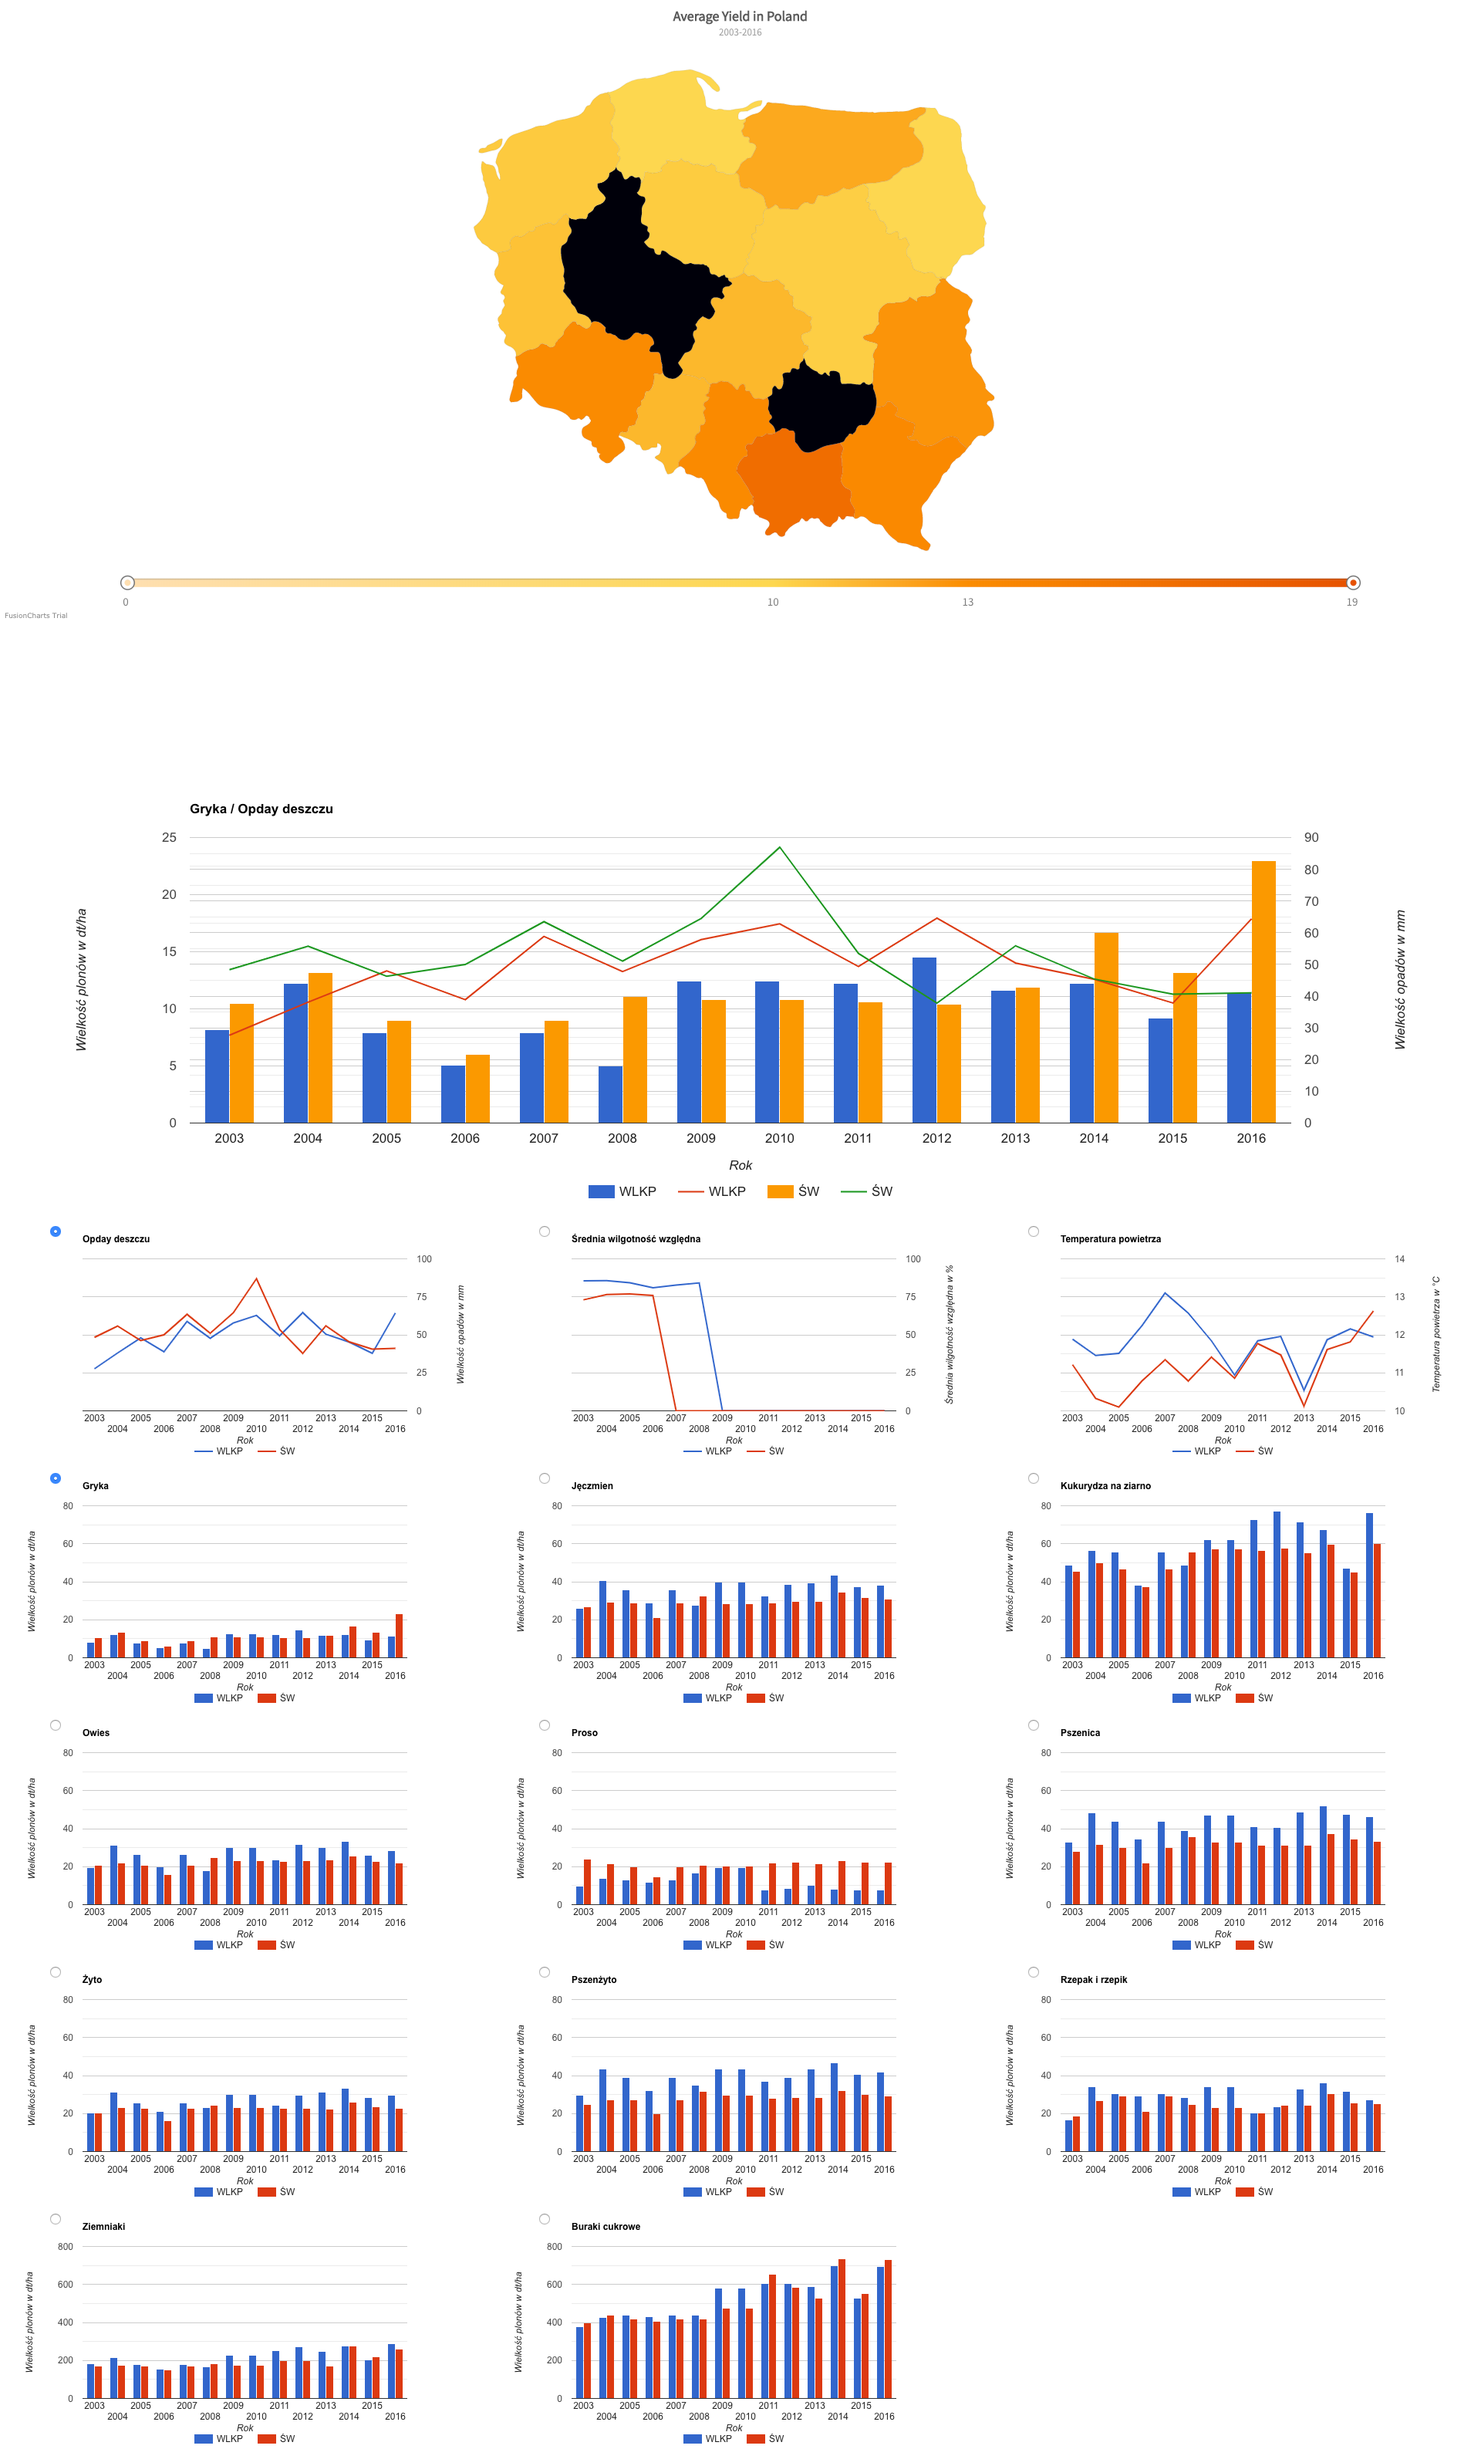
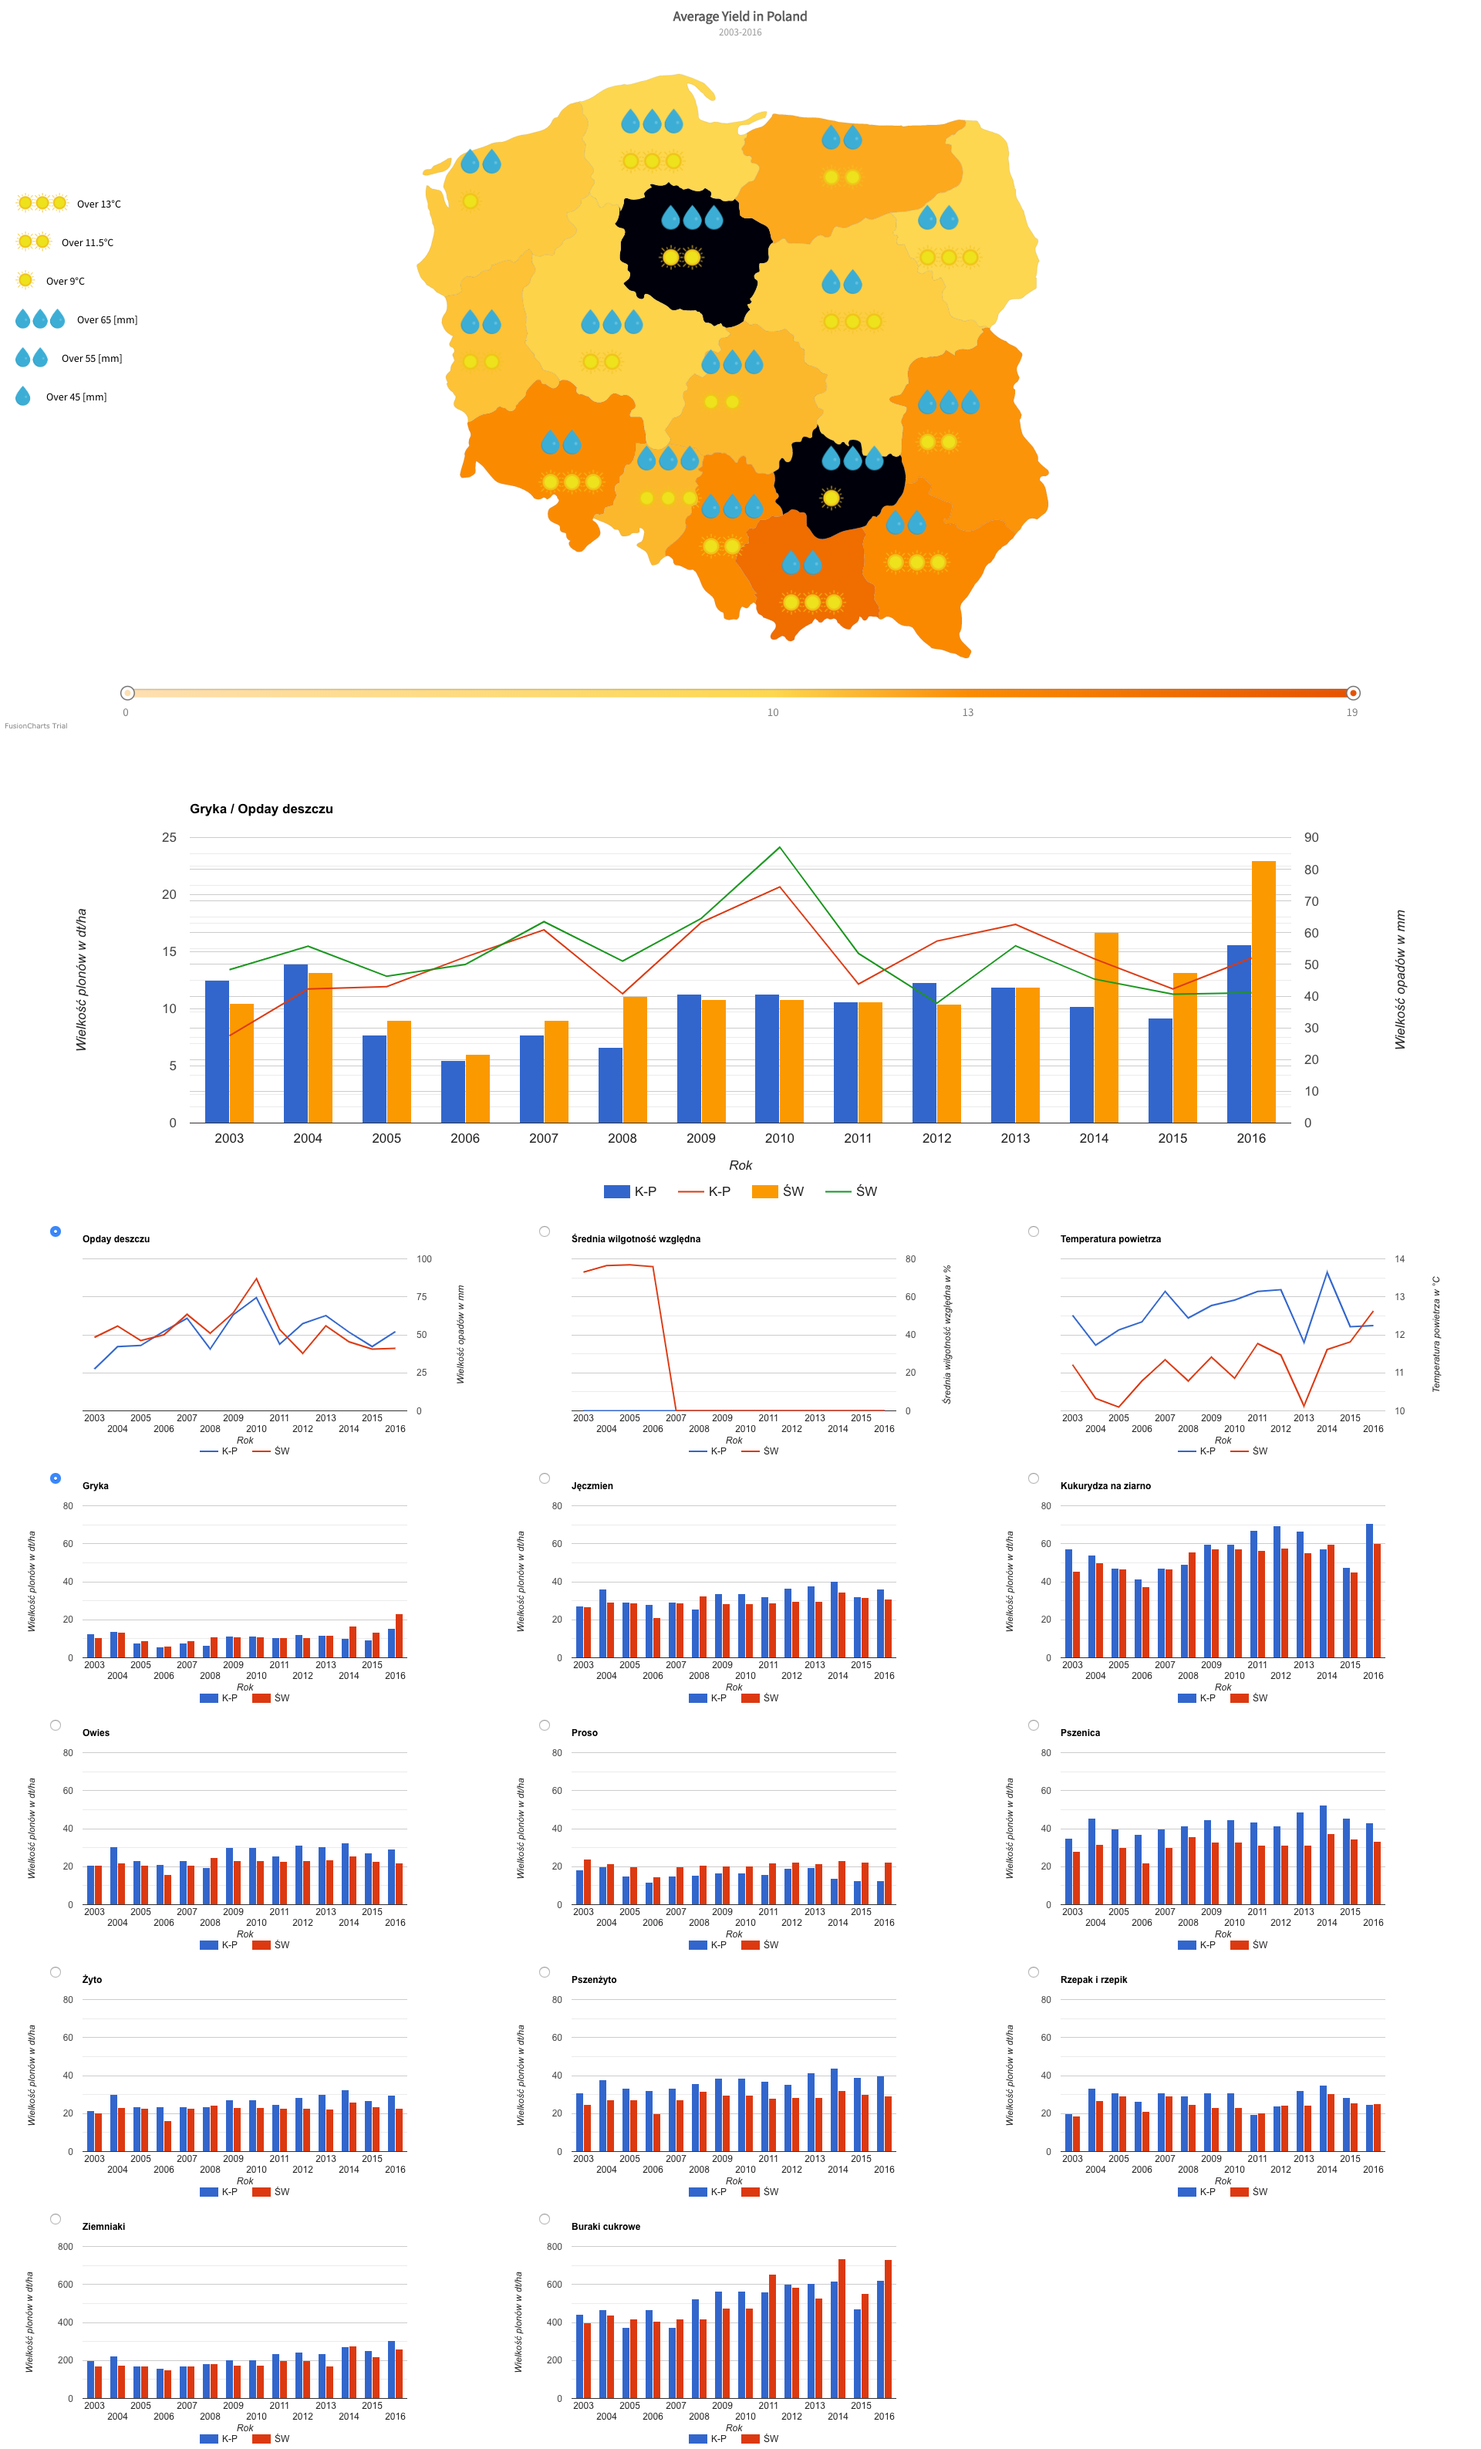
Fix meteo avg fnc

diff --git a/src/utils/MeteoDataLoader.js b/src/utils/MeteoDataLoader.js
@@ -128,16 +128,18 @@ export default class MeteoDataLoader {
 
     if (Object.keys(MeteoDataLoader.data).length === 0) {
       MeteoDataLoader.loadData().then(() => {
-        if (typeof year === "number") {
+        if (typeof year === 'string') {
+          averageAll();
+        } else {
           average();
         }
-        averageAll();
       });
     } else {
-      if (typeof year === "number") {
+      if (typeof year === 'string') {
+        averageAll();
+      } else {
         average();
       }
-      averageAll();
     }
 
     return result;

diff --git a/src/components/App.js b/src/components/App.js
@@ -35,11 +35,6 @@ class App extends Component {
         });
         let i = 0;
         for (var r in Regions) {
-          console.log(
-            "Opady:",
-            new MeteoDataLoader().avgOf("rainfall", "all", r, 3, 9)
-          );
-
           items[i] = {
             id: r + "_rainfall",
             shapeid: this.pickDropByAvg(

diff --git a/README.md b/README.md
@@ -19,10 +19,11 @@
 
 ## General info
 
-It allow to compare how much yields was harvested in reference to previous years.
+It allow to compare how much yields was harvested in reference to previous years and visualize meteo and yields charts on map.
 
 ## Technologies
 
+- Javascript ES6 / ES7
 - react - ![](https://img.shields.io/npm/v/react.svg?style=plastic)
 - react-fusioncharts - ![](https://img.shields.io/npm/v/react-fusioncharts.svg)
 - react-google-charts - ![](https://img.shields.io/npm/v/react-google-charts.svg?style=plastic)
@@ -46,10 +47,7 @@ List of features ready and TODOs for future development
 - Show geo map depends on real yields data
 - Display each yield in separate chart
 - Display combined data in one big chart
-
-To-do list:
-
-- Add icons to map depends on how much railfall was in year
+- Add icons to map depends on how much railfall and temperature was in previous years
 
 ## Status
 
